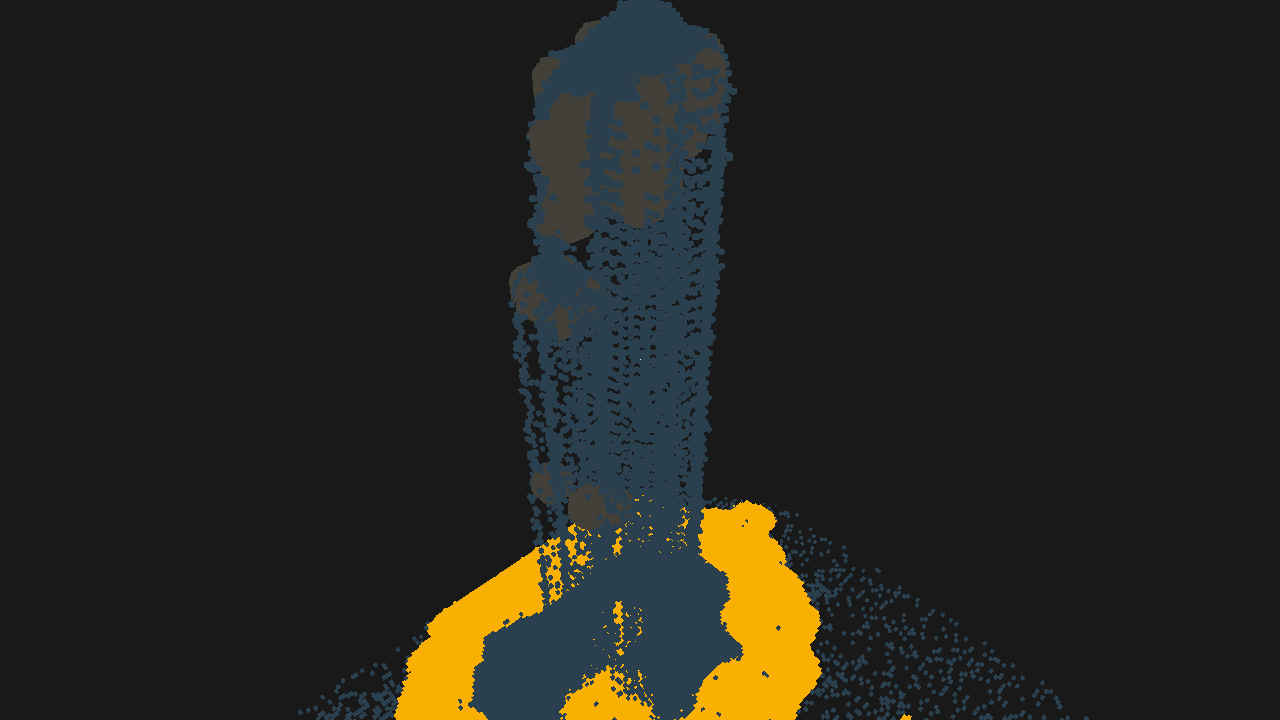
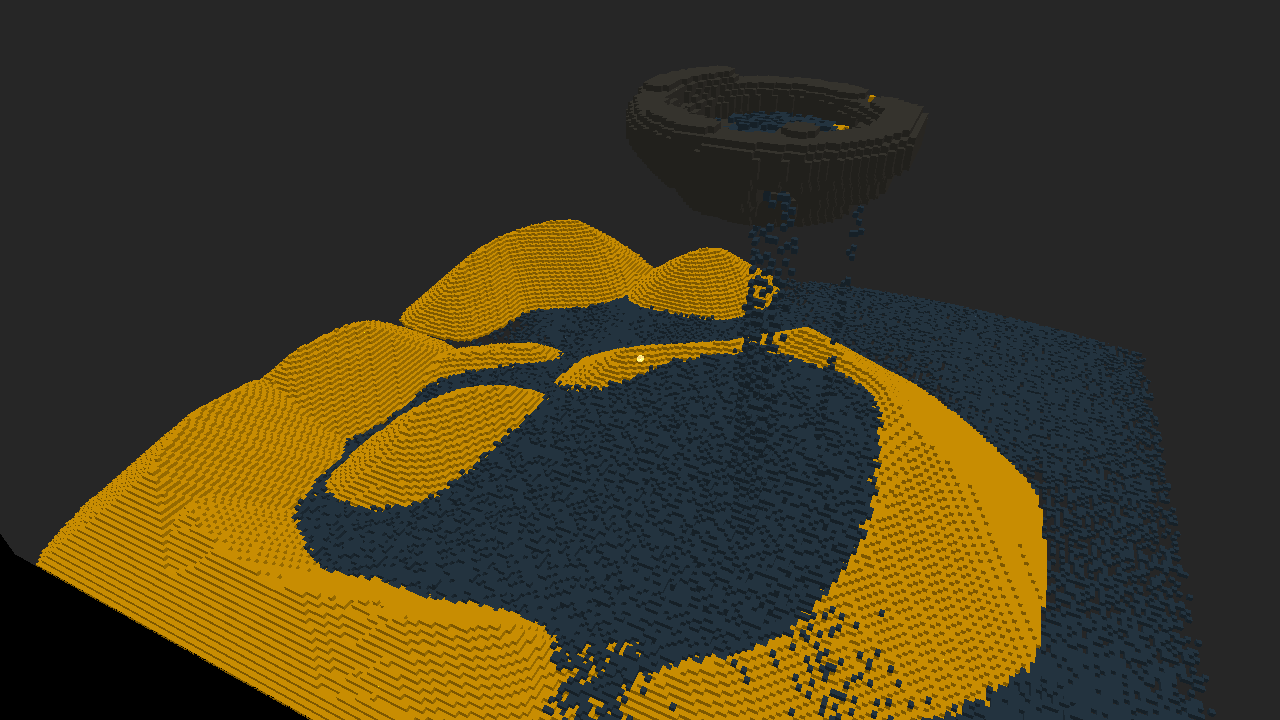
particle interaction, lighting, grid lines, keybinds

diff --git a/app.cpp b/app.cpp
@@ -13,15 +13,15 @@
 #include <player.h>
 
 
-float blockDist = 50.f;
+glm::float32 blockSize = 4.f;
 
 void scroll_callback(GLFWwindow* window, double xoffset, double yoffset) {
-	blockDist = glm::min(glm::max(blockDist + float(yoffset), 0.5f), 100.f);
+	blockSize = glm::min(glm::max(blockSize + float(yoffset), 1.f), 50.f);
 }
 
 
 App::App() {
-	window = voxgl::createWindow("Particle Simulator", windowWidth, windowHeight);
+	window = voxgl::createWindow("Voxel Particle Simulator", windowWidth, windowHeight);
 
 	glfwSetScrollCallback(window, scroll_callback);
 
@@ -36,7 +36,8 @@ App::~App() {
 
 void App::run() {
 	// constants
-	const glm::uint dimension = 512;
+	const int fps = 60;
+	const glm::uint dimension = 256;
 	/*GLint size;
 	glGetIntegerv(GL_MAX_3D_TEXTURE_SIZE, &size);
 	std::cout << "GL_MAX_3D_TEXTURE_SIZE is " << size << " in each dimension." << std::endl;*/
@@ -45,13 +46,17 @@ void App::run() {
 	const glm::uint maxVelocity = simLocalDim / 2;  // max velocity is limited by shader work group size
 	const glm::uint simSpacing = 2 * simLocalDim;
 
-	const int simIterations = 4;
+	const int simIterations = 1;
 
 
 	// variable uniforms shared between sim and renderer
 	glm::uint currentFlag = 0;
 	glm::uint placeBlock = 0;
 	glm::uint blockType = 1;
+	glm::uint drawLines = 0;
+	glm::float32 blockDist = 50.f;
+	glm::uint updateDist = 1;
+	bool distUpdated = true;
 
 
 	// shader related stuff
@@ -107,7 +112,10 @@ void App::run() {
 	GLuint rtCamMat = glGetUniformLocation(rtProgram, "cameraMat");
 	GLuint rtDimension = glGetUniformLocation(rtProgram, "dimension");
 	GLuint rtBlockDist = glGetUniformLocation(rtProgram, "blockDist");
+	GLuint rtBlockSize = glGetUniformLocation(rtProgram, "blockSize");
 	GLuint rtPlaceBlock = glGetUniformLocation(rtProgram, "placeBlock");
+	GLuint rtUpdateDist = glGetUniformLocation(rtProgram, "updateDist");
+	GLuint rtDrawLines = glGetUniformLocation(rtProgram, "drawLines");
 
 
 	glUseProgram(rtProgram);
@@ -122,15 +130,16 @@ void App::run() {
 
 	GLuint ptCurrentFlag = glGetUniformLocation(ptProgram, "currentFlag");
 	GLuint ptPartition = glGetUniformLocation(ptProgram, "part");
-	GLuint ptTime = glGetUniformLocation(ptProgram, "time");
+	GLuint ptRNG = glGetUniformLocation(ptProgram, "rng");
 	GLuint ptBlockType = glGetUniformLocation(ptProgram, "blockType");
+	GLuint ptBlockSize = glGetUniformLocation(ptProgram, "blockSize");
 	GLuint ptPlaceBlock = glGetUniformLocation(ptProgram, "placeBlock");
-	//GLuint ptDimension = glGetUniformLocation(ptProgram, "dimension");
+	GLuint ptDimension = glGetUniformLocation(ptProgram, "dimension");
 	//GLuint ptMaxVelocity = glGetUniformLocation(ptProgram, "maxVelocity");
 
 	glUseProgram(ptProgram);
 
-	//glUniform1ui(ptDimension, dimension);
+	glUniform1ui(ptDimension, dimension);
 	//glUniform1ui(ptMaxVelocity, maxVelocity);
 
 
@@ -170,8 +179,8 @@ void App::run() {
 	glfwMakeContextCurrent(NULL);
 	std::thread render_thread([&]() {
 		glfwMakeContextCurrent(window);
-
-		Timer renderPacer(60);
+		
+		Timer renderPacer(fps);
 
 		GLdouble last_refresh = glfwGetTime();
 		int frames = 0;
@@ -180,8 +189,7 @@ void App::run() {
 		GLuint timerQueries[3];
 		glGenQueries(3, timerQueries);
 
-
-		//auto rng = std::minstd_rand{};
+		auto rng = std::minstd_rand{};
 
 
 		while (!glfwWindowShouldClose(window)) {
@@ -190,13 +198,14 @@ void App::run() {
 
 			dataLock.lock();
 			glUniform1ui(ptBlockType, blockType);
+			glUniform1f(ptBlockSize, blockSize);
 			glUniform1ui(ptPlaceBlock, placeBlock);
 			dataLock.unlock();
 
 			glBeginQuery(GL_TIME_ELAPSED, timerQueries[0]);
 			for (int it = 0; it < simIterations; it++) {
 				glUniform1ui(ptCurrentFlag, currentFlag = (!currentFlag) * 0x80);
-				glUniform1ui(ptTime, glfwGetTime());
+				glUniform1f(ptRNG, float(rng())/ float(rng.max()));
 
 				for (int part = 0; part < 8; part++) {
 					glUniform3i(ptPartition, part % 2, (part / 2) % 2, (part / 4) % 2);
@@ -214,7 +223,11 @@ void App::run() {
 			glUniform3f(rtCamPos, player.camera.position.x, player.camera.position.y, player.camera.position.z);
 			glUniformMatrix3fv(rtCamMat, 1, GL_FALSE, glm::value_ptr(glm::transpose(player.camera.getMatrix())));
 			glUniform1f(rtBlockDist, blockDist);
-			glUniform1ui(rtPlaceBlock, placeBlock);
+			glUniform1f(rtBlockSize, blockSize);
+			glUniform1f(rtPlaceBlock, placeBlock);
+			glUniform1ui(rtUpdateDist, updateDist);
+			distUpdated = true;
+			glUniform1ui(rtDrawLines, drawLines);
 			dataLock.unlock();
 
 			glBeginQuery(GL_TIME_ELAPSED, timerQueries[1]);
@@ -283,37 +296,39 @@ void App::run() {
 				last_refresh = glfwGetTime();
 			}
 
-			// Needs to be fixed
-			/*/ Recompile shaders with 'R' key
+
+			// Recompile shaders with 'R' key
 			if (glfwGetKey(window, GLFW_KEY_R)) {
 				loadPTShader(ptProgram);
 
-				ptDimension = glGetUniformLocation(ptProgram, "dimension");
-				ptMaxVelocity = glGetUniformLocation(ptProgram, "maxVelocity");
-				ptSpacing = glGetUniformLocation(ptProgram, "spacing");
+				ptCurrentFlag = glGetUniformLocation(ptProgram, "currentFlag");
+				ptPartition = glGetUniformLocation(ptProgram, "part");
+				ptRNG = glGetUniformLocation(ptProgram, "rng");
 				ptBlockType = glGetUniformLocation(ptProgram, "blockType");
+				ptBlockSize = glGetUniformLocation(ptProgram, "blockSize");
 				ptPlaceBlock = glGetUniformLocation(ptProgram, "placeBlock");
-				ptTimeUniform = glGetUniformLocation(ptProgram, "time");
+				ptDimension = glGetUniformLocation(ptProgram, "dimension");
 
 				glUseProgram(ptProgram);
 				glUniform1ui(ptDimension, dimension);
-				glUniform1ui(ptMaxVelocity, maxVelocity);
-				glUniform1ui(ptSpacing, spacing);
 
 
 				loadRTShader(rtProgram);
 
-				rtResolutionUniform = glGetUniformLocation(rtProgram, "resolution");
-				rtCamPosUniform = glGetUniformLocation(rtProgram, "cameraPos");
-				rtCamMatUniform = glGetUniformLocation(rtProgram, "cameraMat");
-				rtBlockDistUniform = glGetUniformLocation(rtProgram, "blockDist");
-				rtPlaceBlock = glGetUniformLocation(rtProgram, "placeBlock");
+				rtResolution = glGetUniformLocation(rtProgram, "resolution");
+				rtCamPos = glGetUniformLocation(rtProgram, "cameraPos");
+				rtCamMat = glGetUniformLocation(rtProgram, "cameraMat");
 				rtDimension = glGetUniformLocation(rtProgram, "dimension");
+				rtBlockDist = glGetUniformLocation(rtProgram, "blockDist");
+				rtBlockSize = glGetUniformLocation(rtProgram, "blockSize");
+				rtPlaceBlock = glGetUniformLocation(rtProgram, "placeBlock");
+				rtUpdateDist = glGetUniformLocation(rtProgram, "updateDist");
+				rtDrawLines = glGetUniformLocation(rtProgram, "drawLines");
 
 				glUseProgram(rtProgram);
-				glUniform2i(rtResolutionUniform, framebufferWidth, framebufferHeight);
-				glUniform1ui(ptDimension, dimension);
-			}*/
+				glUniform2i(rtResolution, framebufferWidth, framebufferHeight);
+				glUniform1ui(rtDimension, dimension);
+			}
 
 			renderPacer.tick();
 		}
@@ -323,6 +338,8 @@ void App::run() {
 	// Input thread
 	Timer inputPacer(500);
 	unsigned int timeDelta;
+	glm::vec3 prevFacingRay {0};
+	bool prevQ = false;
 
 	while (!glfwWindowShouldClose(window)) {
 		timeDelta = inputPacer.tick();
@@ -331,44 +348,66 @@ void App::run() {
 		if (glfwGetKey(window, GLFW_KEY_ESCAPE) == GLFW_PRESS)
 			glfwSetWindowShouldClose(window, GLFW_TRUE);
 
+		bool cameraChanged = false;
+
 		dataLock.lock();
 
 		player.handleInputs(window);
 		player.update(timeDelta);
 
-		// block distance
-		if (glfwGetKey(window, GLFW_KEY_EQUAL) == GLFW_PRESS)
-			blockDist = glm::min(blockDist + 0.05f, 100.f);
+		glm::vec3 facingRay = player.camera.facingRay();
 
-		else if (glfwGetKey(window, GLFW_KEY_MINUS) == GLFW_PRESS)
-			blockDist = glm::max(blockDist - 0.05f, 0.5f);
+		if (distUpdated) {
+			if (facingRay != prevFacingRay  ||  glm::any(glm::greaterThan(glm::abs(player.velocity), glm::vec3(0)))) {
+				updateDist = 1;
+				distUpdated = false;
+			}
+			else
+				updateDist = 0;
+		}
+
+
+		// block distance
+		if (glfwGetKey(window, GLFW_KEY_EQUAL) == GLFW_PRESS) {
+			blockDist = glm::min(blockDist + 0.05f, 200.f);
+			updateDist = 1;
+			distUpdated = false;
+		}
+		else if (glfwGetKey(window, GLFW_KEY_MINUS) == GLFW_PRESS) {
+			blockDist = glm::max(blockDist - 0.05f, blockSize);
+			updateDist = 1;
+			distUpdated = false;
+		}
 
 
 		// block type
-		if (glfwGetKey(window, GLFW_KEY_1) == GLFW_PRESS)
-			blockType = 0;
-
-		if (glfwGetKey(window, GLFW_KEY_2) == GLFW_PRESS)
-			blockType = 1;
-
-		else if (glfwGetKey(window, GLFW_KEY_3) == GLFW_PRESS)
-			blockType = 2;
-
-		else if (glfwGetKey(window, GLFW_KEY_4) == GLFW_PRESS)
-			blockType = 3;
+		if (glfwGetKey(window, GLFW_KEY_1) == GLFW_PRESS)		blockType = 0;
+		else if (glfwGetKey(window, GLFW_KEY_2) == GLFW_PRESS)	blockType = 1;
+		else if (glfwGetKey(window, GLFW_KEY_3) == GLFW_PRESS)	blockType = 2;
+		else if (glfwGetKey(window, GLFW_KEY_4) == GLFW_PRESS)	blockType = 3;
 
 
 		// place block
-		if (glfwGetMouseButton(window, GLFW_MOUSE_BUTTON_LEFT) == GLFW_PRESS) {
-			if(!placeBlock)
-				placeBlock = 1;
+		if (glfwGetMouseButton(window, GLFW_MOUSE_BUTTON_LEFT) == GLFW_PRESS)
+			placeBlock = 1;
+		else
+			placeBlock = 0;
+
+		// toggle draw lines
+		if (glfwGetKey(window, GLFW_KEY_Q) == GLFW_PRESS) {
+			if (!prevQ) {
+				if(drawLines) drawLines = 0;
+				else drawLines = 1;
+			}
+			prevQ = true;
 		}
-		else {
-			if (placeBlock)
-				placeBlock = 0;
-		}
+		else
+			prevQ = false;
 
 		dataLock.unlock();
+
+
+		prevFacingRay = facingRay;
 	}
 
 	render_thread.join();

diff --git a/README.md b/README.md
@@ -1,11 +1,10 @@
-# 3D Voxel Particles
+# Voxel Particles
 This project simulates particle interactions using voxels in a GLSL compute shader.
 
-This relies on [VoxGL](https://github.com/jfriedson/voxgl) for the OpenGL interaction.
+This relies on [VoxGL](https://github.com/jfriedson/voxgl) for OpenGL interaction.
 
 The screenshots below depict a world size of 256 from a sub-performant implementation. I will update these soon.
 ![Screenshot of waterfall](screenshots/waterfall.png?raw=true)
-![Screenshot of pool of water](screenshots/pool.png?raw=true)
 
 
 ## Objective
@@ -25,10 +24,10 @@ For a fast simulation and stable 60fps use:
 
 
 ## Controls
-Mouse
+Mousef
 - Move - orient camera
 - Left - place blocks
-- Scroll wheel - adjust distance of block placement
+- Scroll wheel - adjust size of block placement
 
 WASD - move
 
@@ -44,12 +43,22 @@ Block selection (number keys)
 - 3 - sand
 - 4 - water
 
+L - toggle grid lines
+
 
 ## Current Limitations
-Due to memory coherency only being guaranteed between shader invocations in the same work group and the fact that my gtx 1080 caps the group size to 8**3, the maximum velocity of a particle is 4 voxels per simulation step on my hardware.  This limitation can be masked by comparing a random value to the fractional part of the velocity and calling the simulation multiple times between renderings.
+Due to memory coherency only being guaranteed between shader invocations in the same work group and the fact that my gtx 1080 caps the group size to 8**3, the maximum velocity of a particle is 4 voxels per simulation step on my hardware.  This limitation can be cover up by comparing a random value to the simulation multiple times between renderings.
+
+The unpredictable nature of shader execution makes it difficult to have particles interact.
 
 
 ## Changelog
+- Some particle interaction (sand sinks in water, kind of) needs work
+
+- Fake lighting based on direction of voxel face.
+
+- Added grid lines. needs tweaking
+
 - Combined the parallel and sequential approaches to provide a significant performance boost that makes simulation about 60 times faster than either of the techniques individually.
 
 - Use an alternating flag to prevent particles from updating more than once a simulation step.
@@ -64,7 +73,6 @@ Due to memory coherency only being guaranteed between shader invocations in the 
 
 - Switch to a kinematic simulation instead of the current cellular automata-like approach for particle movement.
 
-- Experiment with computing the simulation in an SVO and compare the performance to generating an SVO from the dense voxel structure for rendering.
 
 - There is a bug where rendering the camera from a position with a negative component results in a jittery image. It seems to be a miscalculation in the ray origin or angle with negative values. Still searching for the fix.
 
